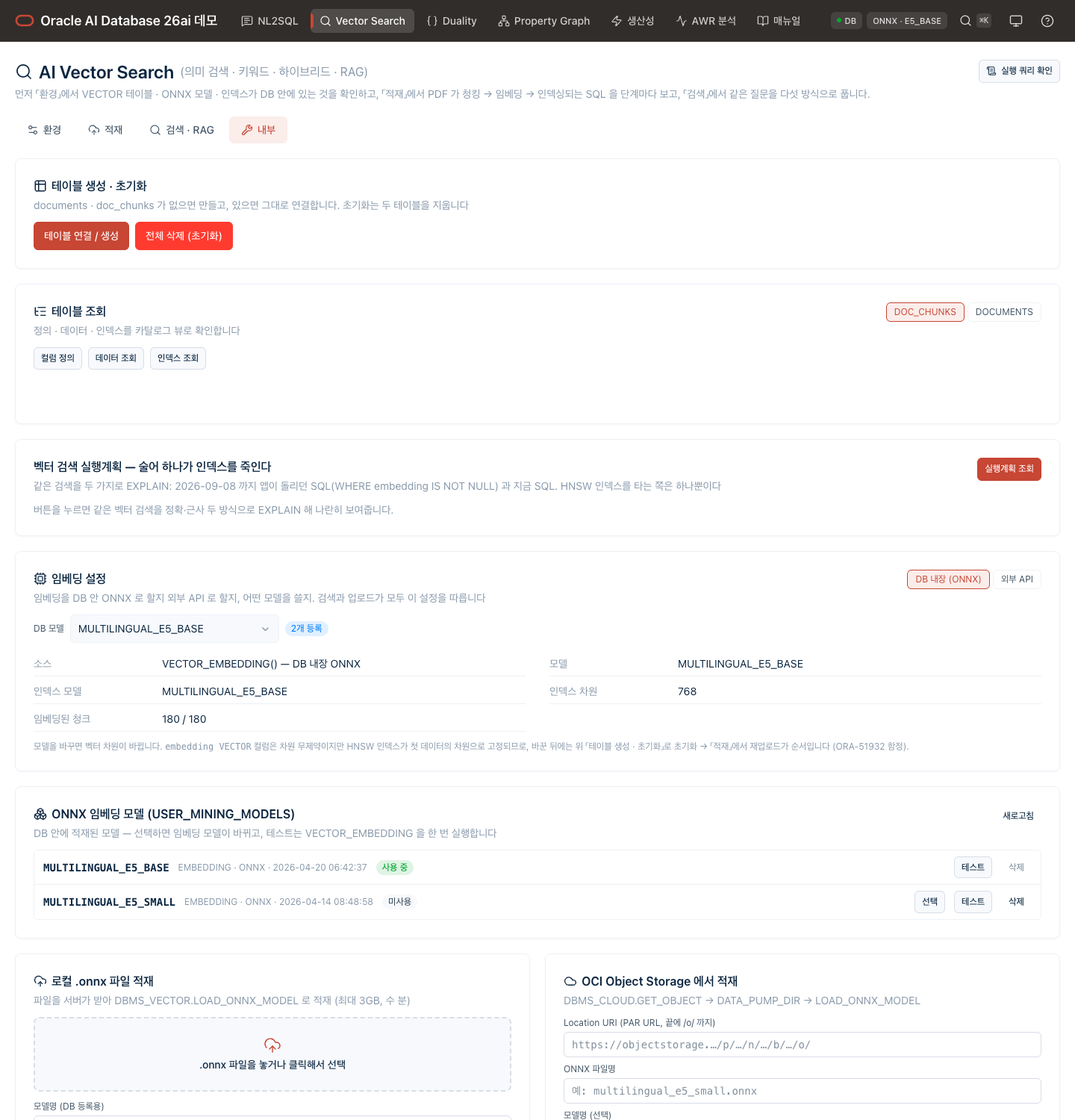
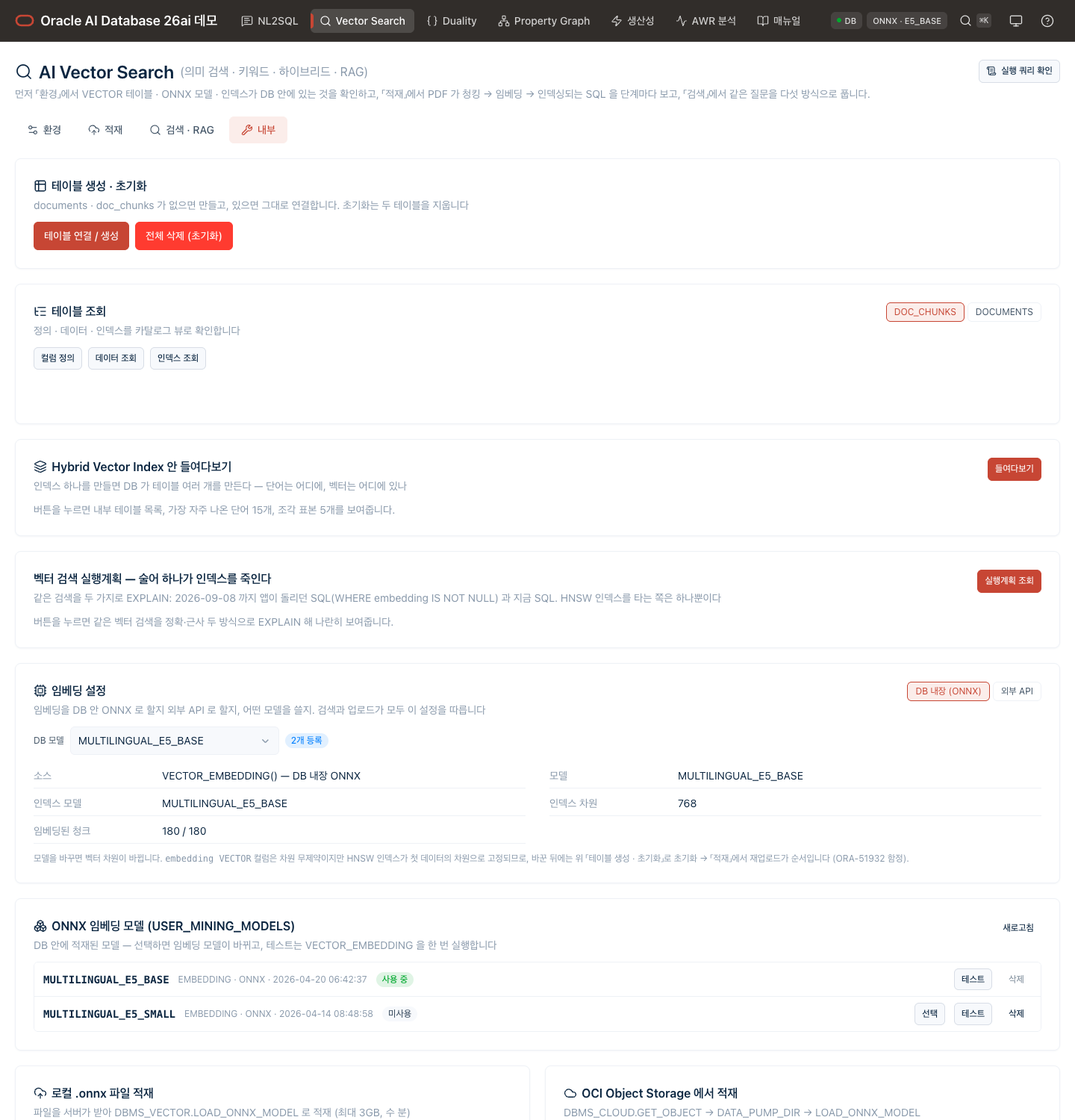
feat(vector): 「내부」 탭에 Hybrid Vector Index 안 들여다보기 — 내부 테이블 · 상위 토큰 · 조각 표본 (재편 P4)
인덱스 하나를 만들면 DB 가 테이블 12개를 만든다는 것을 표본으로 보여준다. P3 와 같은 원칙 —
값마다 뜻, "이게 있어서" 한 줄. DBA 가 "인덱스 안에 뭐가 있냐"고 물을 때의 답.

  vector_search.py  get_hybrid_index_internals(): 내부 테이블 목록 + 행 수 + 역할(확실한 것만:
                    $I 토큰 · $VR 조각+임베딩 · $K docid↔rowid · $N 삭제 대기 · IVF 중심점/배정,
                    나머지는 "보조") · 상위 토큰 15($I, TOKEN_COUNT 순) · 조각 표본 5($VR, 본문
                    100자 + VECTOR_DIMS). 컬럼명은 user_tab_columns 로 확인하고 썼다
  routers/vector.py GET /api/vector/hybrid-index/internals
  VectorInternals   카드 "Hybrid Vector Index 안 들여다보기" — 3열(테이블·단어·조각) + 안내:
                    단어가 '카드사는'·'회원이' 처럼 조사 붙은 채 저장되므로 키워드 검색이 '카드%'
                    로 묻는다(「검색」의 실행 SQL 과 연결). 조회 SQL 3개는 접힘

실측(이 ADB): 토큰 3,803 · 조각 451 · IVF 중심점 34.

함정: SFC 에 <style> 을 붙이려고 첫 </template> 뒤에 넣었더니 카드 슬롯의 </template> 뒤(템플릿
안)에 들어갔다 — 빌드는 통과한다. 파일 끝에 붙여야 한다. 핸드오프 4-22.

검증: 테스트 +1($I/$VR 존재 · 토큰 내림차순 · 조각 dims>0), pytest 64 · ruff · build 통과.
브라우저: 들여다보기 → 테이블 12 · 토큰 3,803(상위 '수') · 조각 5 × 768차원 · 안내 줄 · SQL 3개,
DOM 에 떠도는 <style> 없음. API 명세 60. 레지스트리 +1(생성 항목은 「환경」으로).

diff --git a/web/src/pages/vector/VectorInternals.vue b/web/src/pages/vector/VectorInternals.vue
@@ -1,7 +1,7 @@
 <script setup lang="ts">
 /** 「내부」 서브탭 — 증명·관리 도구: 실행계획 전/후 · 테이블 생성/조회 · ONNX 모델·임베딩 소스 관리. 시연 중 자주 안 열지만 DBA 가 반드시 묻는 것들 (2026-09-09 재편 P1) */
 import { ref } from 'vue'
-import { Table2, ListTree } from 'lucide-vue-next'
+import { Table2, ListTree, Layers } from 'lucide-vue-next'
 import Card from '@/components/ui/Card.vue'
 import Button from '@/components/ui/Button.vue'
 import Badge from '@/components/ui/Badge.vue'
@@ -11,6 +11,7 @@ import ResultTable from '@/components/demo/ResultTable.vue'
 import Segmented from '@/components/demo/Segmented.vue'
 import VectorEmbedding from './VectorEmbedding.vue'
 import CompareView from '@/components/demo/CompareView.vue'
+import { fmtNum } from '@/lib/format'
 import { useVectorStore } from '@/stores/vector'
 
 const v = useVectorStore()
@@ -50,6 +51,47 @@ const KINDS = [{ k: 'def', label: '컬럼 정의', hint: 'USER_TAB_COLUMNS' }, {
       </div>
     </Card>
 
+    <!-- P4: 인덱스 하나가 실제로는 테이블 여러 개 — 무엇이 들어 있나 -->
+    <Card title="Hybrid Vector Index 안 들여다보기" subtitle="인덱스 하나를 만들면 DB 가 테이블 여러 개를 만든다 — 단어는 어디에, 벡터는 어디에 있나" :icon="Layers">
+      <template #actions><Button size="sm" :busy="v.hviInternalsBusy" @click="v.loadHviInternals()">{{ v.hviInternals ? '새로고침' : '들여다보기' }}</Button></template>
+      <p v-if="!v.hviInternals" class="text-sm m-0" style="color: var(--text-muted);">버튼을 누르면 내부 테이블 목록, 가장 자주 나온 단어 15개, 조각 표본 5개를 보여줍니다.</p>
+      <div v-else-if="v.hviInternals.error" class="px-3 py-2.5 rounded-md text-sm" style="background: var(--accent-negative-soft); border-left: 3px solid var(--accent-negative); color: var(--text-primary);">{{ v.hviInternals.error }}</div>
+      <p v-else-if="!v.hviInternals.exists" class="text-sm m-0" style="color: var(--text-muted);">Hybrid Vector Index 가 없습니다 — 「환경」 서브탭에서 만드세요.</p>
+      <div v-else class="grid grid-cols-1 xl:grid-cols-3 gap-4 items-start">
+        <div>
+          <div class="text-xs font-semibold mb-1.5" style="color: var(--text-secondary);">내부 테이블 {{ v.hviInternals.tables?.length }}개</div>
+          <div class="rounded-md overflow-hidden" style="border: 1px solid var(--border-default);">
+            <div v-for="t in v.hviInternals.tables" :key="t.name" class="row px-2.5 py-1.5" style="background: var(--bg-elevated);">
+              <div class="flex items-baseline gap-2"><span class="font-mono text-xs truncate" style="color: var(--text-primary);" :title="t.name">{{ t.name.replace('VECTOR$DR$DOC_CHUNKS_HVI$VI$', 'VECTOR$…$').replace('DR$DOC_CHUNKS_HVI', 'DR$…') }}</span><span class="ml-auto text-xs tabular-nums shrink-0" style="color: var(--text-secondary);">{{ t.rows == null ? '—' : fmtNum(t.rows) }}행</span></div>
+              <div class="text-[11px]" style="color: var(--text-muted);">{{ t.role }}</div>
+            </div>
+          </div>
+        </div>
+        <div>
+          <div class="text-xs font-semibold mb-1.5" style="color: var(--text-secondary);">가장 자주 나온 단어 15 — 토큰 {{ fmtNum(v.hviInternals.token_total ?? 0) }}개 중</div>
+          <div class="flex flex-wrap gap-1.5">
+            <span v-for="tk in v.hviInternals.tokens" :key="tk.text" class="inline-flex items-baseline gap-1 rounded-md px-2 py-1 text-xs" style="background: var(--bg-elevated); border: 1px solid var(--border-default);"><span class="font-mono" style="color: var(--text-primary);">{{ tk.text }}</span><span class="tabular-nums" style="color: var(--text-muted);">{{ tk.count }}</span></span>
+          </div>
+          <p class="text-[11px] mt-2 m-0" style="color: var(--text-secondary); line-height: 1.5;">단어가 <span class="font-mono">카드사는</span> · <span class="font-mono">회원이</span> 처럼 <strong style="color: var(--text-primary);">조사가 붙은 채</strong> 저장됩니다(공백 단위). 그래서 키워드 검색은 <span class="font-mono">카드%</span> 처럼 앞부분으로 묻습니다 — 「검색」의 실행된 SQL 에 그 변환이 보입니다.</p>
+        </div>
+        <div>
+          <div class="text-xs font-semibold mb-1.5" style="color: var(--text-secondary);">조각 표본 5 — 인덱스가 스스로 자르고 벡터로 바꾼 것</div>
+          <div class="flex flex-col gap-1.5">
+            <div v-for="p in v.hviInternals.pieces" :key="p.chunk_id" class="rounded-md px-2.5 py-1.5 text-xs" style="background: var(--bg-elevated); border: 1px solid var(--border-default);">
+              <div class="flex items-center gap-1.5 mb-0.5"><Badge tone="code">#{{ p.chunk_id }}</Badge><span style="color: var(--text-muted);">{{ p.length }}자 → 숫자 {{ p.dims }}개</span></div>
+              <div class="line-clamp-2" style="color: var(--text-primary);">{{ p.text }}</div>
+            </div>
+          </div>
+        </div>
+      </div>
+      <template v-if="v.hviInternals?.exists && v.hviInternals.sql">
+        <p class="text-xs mt-3 mb-2" style="color: var(--text-secondary); line-height: 1.5;"><strong style="color: var(--text-primary);">이게 있어서:</strong> <span class="font-mono">CONTAINS</span> 는 $I 에서 단어를, 벡터 검색은 $VR 에서 조각을 찾습니다. 둘을 한 인덱스가 갖고 있어서 <span class="font-mono">DBMS_HYBRID_VECTOR.SEARCH</span> 의 융합이 DB 안에서 끝납니다.</p>
+        <details class="text-xs"><summary class="cursor-pointer" style="color: var(--text-muted);">조회 SQL 3개</summary>
+          <div class="mt-2 flex flex-col gap-2"><SqlBlock :code="v.hviInternals.sql.tables" label="내부 테이블" max-height="100px" /><SqlBlock :code="v.hviInternals.sql.tokens" label="상위 토큰 ($I)" max-height="100px" /><SqlBlock :code="v.hviInternals.sql.pieces" label="조각 표본 ($VR)" max-height="100px" /></div>
+        </details>
+      </template>
+    </Card>
+
     <Card title="벡터 검색 실행계획 — 술어 하나가 인덱스를 죽인다" subtitle="같은 검색을 두 가지로 EXPLAIN: 2026-09-08 까지 앱이 돌리던 SQL(WHERE embedding IS NOT NULL) 과 지금 SQL. HNSW 인덱스를 타는 쪽은 하나뿐이다">
       <template #actions><Button size="sm" :busy="v.planBusy" @click="v.loadPlan()">실행계획 조회</Button></template>
       <div v-if="v.plan" class="flex flex-col gap-2">
@@ -86,3 +128,7 @@ const KINDS = [{ k: 'def', label: '컬럼 정의', hint: 'USER_TAB_COLUMNS' }, {
     </ConfirmModal>
   </div>
 </template>
+
+<style scoped>
+.row + .row { border-top: 1px solid var(--border-default); }
+</style>

diff --git a/web/src/lib/vector.ts b/web/src/lib/vector.ts
@@ -50,6 +50,13 @@ export interface PlanSide { target_sql: string; plan_text: string; access?: stri
 /** 2026-09-08 까지의 SQL(before: WHERE embedding IS NOT NULL) vs 지금(after) — 술어 하나가 HNSW 를 죽였다. after 만 VECTOR INDEX HNSW SCAN */
 export interface HybridIndexStatus { success: boolean; exists: boolean; index_name: string; status?: string | null; ctx_status?: string | null; parameters?: string | null; indexed_chunks?: number | null; legacy_text_index: boolean; model: string; create_sql: string; error?: string }
 export interface HybridIndexCreate { success: boolean; skipped?: boolean; message?: string; error?: string; elapsed_ms?: number; steps?: { sql: string; note: string; duration_ms?: number }[]; status?: HybridIndexStatus }
+export interface HybridInternals {
+  success: boolean; exists: boolean; index_name: string; error?: string
+  tables?: { name: string; rows: number | null; role: string }[]
+  token_total?: number; tokens?: { text: string; count: number }[]
+  pieces?: { chunk_id: number; length: number; text: string; dims: number }[]
+  sql?: { tables: string; tokens: string; pieces: string }
+}
 export interface ExplainPlan { success: boolean; before?: PlanSide; after?: PlanSide; target_sql?: string; explain_sql?: string; plan_text?: string; error?: string }
 export interface UploadDone { doc_id?: number; filename: string; chunks_count: number; embedded_count?: number; not_embedded_count?: number; pages_count?: number; total_ms: number; warning?: string }
 export interface PipelineStep { step: number; label: string; status: 'pending' | 'running' | 'done'; detail?: string; duration_ms?: number; sql?: string; sample?: any }
@@ -68,6 +75,7 @@ export const tableData = (table_name: string, limit = 50) => api.post('/api/vect
 export const tableIndexes = (table_name: string) => api.post('/api/vector/table-indexes', { table_name }).then((r) => fromColumnsData(r.data) as Rows)
 export const getHybridIndex = () => api.get<HybridIndexStatus>('/api/vector/hybrid-index').then((r) => r.data)
 export const createHybridIndex = (force = false) => api.post<HybridIndexCreate>('/api/vector/hybrid-index/create', { force }, { timeout: 600_000 }).then((r) => r.data)
+export const getHybridInternals = () => api.get<HybridInternals>('/api/vector/hybrid-index/internals').then((r) => r.data)
 export const explainPlan = () => api.post<ExplainPlan>('/api/vector/explain-plan').then((r) => r.data)
 export const getEmbeddingConfig = () => api.get<EmbeddingConfig>('/api/vector/embedding-config').then((r) => r.data)
 export const setEmbeddingConfig = (body: { source?: string; model?: string; reset_model?: boolean }) => api.post<EmbeddingConfig>('/api/vector/embedding-config', body).then((r) => r.data)

diff --git a/web/src/stores/vector.ts b/web/src/stores/vector.ts
@@ -1,5 +1,5 @@
 import { defineStore } from 'pinia'
-import { getHybridIndex, createHybridIndex, ENV_EMBED_SAMPLE, type HybridIndexStatus, type HybridIndexCreate } from '@/lib/vector'
+import { getHybridIndex, createHybridIndex, getHybridInternals, ENV_EMBED_SAMPLE, type HybridIndexStatus, type HybridIndexCreate, type HybridInternals } from '@/lib/vector'
 import { computed, ref } from 'vue'
 import { errorMessage } from '@/lib/api'
 import { postSse } from '@/composables/useSse'
@@ -194,6 +194,11 @@ export const useVectorStore = defineStore('vector', () => {
     finally { hviBusy.value = '' }
   }
 
+  // 「내부」 — 하이브리드 인덱스 안 들여다보기 (P4)
+  const hviInternals = ref<HybridInternals | null>(null)
+  const hviInternalsBusy = ref(false)
+  async function loadHviInternals() { hviInternalsBusy.value = true; try { hviInternals.value = await getHybridInternals() } catch (e) { hviInternals.value = { success: false, exists: false, index_name: '', error: errorMessage(e) } } finally { hviInternalsBusy.value = false } }
+
   async function loadPlan() { planBusy.value = true; try { plan.value = await explainPlan() } catch (e) { plan.value = { success: false, error: errorMessage(e) } } finally { planBusy.value = false } }
 
   // ── 검색 (RAG) ──
@@ -294,5 +299,6 @@ export const useVectorStore = defineStore('vector', () => {
     onnxTest, onnxBusy, onnxLocalResult, onnxCloudResult, refreshOnnx, testModel, deleteModel, uploadLocal, loadCloud,
     hvi, hviBusy, hviResult, loadHvi, createHvi,
     envEmbedText, envEmbed, envEmbedBusy, testEmbed,
+    hviInternals, hviInternalsBusy, loadHviInternals,
   }
 })

diff --git a/app/vector_search.py b/app/vector_search.py
@@ -719,6 +719,71 @@ async def sync_hybrid_index(pool) -> dict:
     return {"sql": f"BEGIN CTX_DDL.SYNC_INDEX('{HYBRID_INDEX}'); END;", "elapsed_ms": int((time.time() - t) * 1000)}
 
 
+# 하이브리드 인덱스 내부 테이블의 역할 — 확실한 것만 적는다. 모르는 것은 "보조"라고 부른다.
+_HVI_TABLE_ROLES = {
+    "$I": "텍스트 토큰 — 단어 하나가 어느 조각에 몇 번 나오나 (CONTAINS 가 여기서 찾는다)",
+    "$VR": "조각 + 임베딩 — 인덱스가 스스로 잘라 벡터로 바꾼 것 (벡터 검색이 여기서 찾는다)",
+    "$K": "DOCID ↔ ROWID 매핑 — 인덱스 내부 번호를 원본 행으로",
+    "$N": "삭제 대기 목록 — 지운 행을 다음 동기화 때 정리",
+}
+
+
+def _hvi_role(table_name: str) -> str:
+    if "IVF_FLAT_CENTROIDS" in table_name:
+        return "벡터 인덱스(IVF) 중심점 — 조각들을 묶은 대표 벡터"
+    if "IVF_FLAT_CENTROID_PARTITIONS" in table_name:
+        return "벡터 인덱스(IVF) 배정 — 조각이 어느 중심점에 속하나"
+    suffix = table_name.rsplit("$", 1)[-1]
+    return _HVI_TABLE_ROLES.get("$" + suffix, "인덱스 보조 테이블")
+
+
+async def get_hybrid_index_internals(pool) -> dict:
+    """하이브리드 인덱스 하나가 실제로는 테이블 여러 개다 — 무엇을 만들어 놓았고 안에 무엇이 들었나 (「내부」 탭, 2026-09-09 P4).
+
+    표본만 보여준다: 내부 테이블 목록 + 행 수, 가장 자주 나온 토큰 15개($I), 조각 5개($VR, 본문 100자 + 차원).
+    토큰이 '카드사는'·'회원이' 처럼 조사가 붙은 꼴로 저장되는 것이 그대로 보인다 — 앱이 '카드%' 로 묻는 이유.
+    """
+    t_i, t_vr = f"DR${HYBRID_INDEX}$I", f"DR${HYBRID_INDEX}$VR"
+    sql_tables = f"""SELECT table_name FROM user_tables
+WHERE  table_name LIKE 'DR${HYBRID_INDEX}$%' OR table_name LIKE 'VECTOR$DR${HYBRID_INDEX}%'
+ORDER  BY table_name"""
+    sql_tokens = f"""SELECT token_text, token_count
+FROM   {t_i}
+ORDER  BY token_count DESC
+FETCH FIRST 15 ROWS ONLY"""
+    sql_pieces = f"""SELECT doc_chunk_id, doc_chunk_length, doc_chunk_text, VECTOR_DIMS(doc_embedding)
+FROM   {t_vr}
+ORDER  BY doc_docid, doc_chunk_id
+FETCH FIRST 5 ROWS ONLY"""
+    async with pool.acquire() as conn:
+        async with conn.cursor() as cursor:
+            await cursor.execute("SELECT COUNT(*) FROM user_indexes WHERE index_name = :n", {"n": HYBRID_INDEX})
+            if (await cursor.fetchone())[0] == 0:
+                return {"exists": False, "index_name": HYBRID_INDEX}
+            await cursor.execute(sql_tables)
+            names = [r[0] for r in await cursor.fetchall()]
+            tables = []
+            for n in names:
+                try:
+                    await cursor.execute(f'SELECT COUNT(*) FROM "{n}"')
+                    cnt = (await cursor.fetchone())[0]
+                except Exception as e:
+                    logger.warning("[hvi-internals] %s 행 수 조회 실패: %s", n, e)
+                    cnt = None
+                tables.append({"name": n, "rows": cnt, "role": _hvi_role(n)})
+            await cursor.execute(f"SELECT COUNT(*) FROM {t_i}")
+            token_total = (await cursor.fetchone())[0]
+            await cursor.execute(sql_tokens)
+            tokens = [{"text": r[0], "count": r[1]} for r in await cursor.fetchall()]
+            await cursor.execute(sql_pieces)
+            pieces = [{"chunk_id": r[0], "length": r[1], "text": (r[2] or "")[:100], "dims": r[3]} for r in await cursor.fetchall()]
+    return {
+        "exists": True, "index_name": HYBRID_INDEX, "tables": tables,
+        "token_total": token_total, "tokens": tokens, "pieces": pieces,
+        "sql": {"tables": sql_tables, "tokens": sql_tokens, "pieces": sql_pieces},
+    }
+
+
 async def hybrid_index_search(pool, query: str, top_k: int = 5, fusion: str = "UNION", scorer: str = "rsf") -> dict:
     """DBMS_HYBRID_VECTOR.SEARCH — JSON 한 덩어리로 텍스트+벡터 융합 검색. 반환 점수: score(융합)·vector_score·text_score (0~100)."""
     start = time.time()

diff --git a/app/feature_registry.py b/app/feature_registry.py
@@ -76,9 +76,12 @@ _F = [
  ("vector", "검색 모드 — Hybrid Vector Index (26ai)", "CREATE HYBRID VECTOR INDEX 하나 + DBMS_HYBRID_VECTOR.SEARCH 로 텍스트·벡터 융합",
   "26ai 의 대표 기능. 텍스트 컬럼 하나에 인덱스 하나를 만들면 DB 가 청킹·임베딩·인덱싱·융합을 다 한다. 융합 점수·벡터 점수·텍스트 점수가 청크마다 보인다.",
   "/vector?sub=search&mode=hvi", "hybrid vector index 하이브리드 인덱스 26ai DBMS_HYBRID_VECTOR fusion rsf"),
- ("vector", "Hybrid Vector Index 생성", "Vector Store 탭에서 인덱스 상태 확인 · 생성(옛 Oracle Text 인덱스 대체)",
+ ("vector", "Hybrid Vector Index 안 들여다보기", "내부 테이블 12개 · 자주 나온 단어 15 · 조각 표본 5 — 인덱스 하나가 실제로 무엇을 만들어 놓았나",
+  "DBA 가 \"인덱스 안에 뭐가 있냐\"고 물을 때. 단어가 조사 붙은 채 저장되는 것($I)과 조각마다 벡터가 있는 것($VR)이 그대로 보인다.",
+  "/vector?sub=internals", "hybrid index internals 내부 토큰 조각 $I $VR ivf"),
+ ("vector", "Hybrid Vector Index 생성", "「환경」 탭에서 인덱스 상태 확인 · 생성(옛 Oracle Text 인덱스 대체)",
   "청크 수 × 0.2초. 업로드마다 CTX_DDL.SYNC_INDEX 로 새 청크가 반영된다. 실행되는 DDL 이 화면에 남는다.",
-  "/vector?sub=internals", "hybrid vector index create 생성 ctx_ddl sync"),
+  "/vector?sub=env", "hybrid vector index create 생성 ctx_ddl sync"),
  ("vector", "실행계획 — 술어 하나가 인덱스를 죽인다", "같은 벡터 검색을 WHERE embedding IS NOT NULL 유무로 EXPLAIN 해 나란히",
   "2026-09-08 까지 앱의 검색 SQL 은 이 술어 때문에 HNSW 인덱스를 한 번도 안 탔다. 계획이 TABLE ACCESS FULL ↔ VECTOR INDEX HNSW SCAN 으로 갈리는 것을 보여준다.",
   "/vector?sub=internals", "explain plan 실행계획 hnsw approx 근사 술어"),

diff --git a/tests/test_api_smoke.py b/tests/test_api_smoke.py
@@ -330,6 +330,17 @@ class TestVectorIndexPaths:
         assert d["dimensions_measured"] is True and isinstance(d["vector_dimensions"], int) and d["vector_dimensions"] > 0
         assert "CREATE VECTOR INDEX" in d.get("hnsw_ddl", "")
 
+    def test_하이브리드_인덱스_내부_표본(self, client):
+        """P4 (2026-09-09): 인덱스 하나 = 테이블 여러 개. $I 토큰 · $VR 조각(벡터 차원 포함)이 표본으로 온다."""
+        d = client.get("/api/vector/hybrid-index/internals").json()
+        assert d.get("success"), d.get("error")
+        if not d["exists"]:
+            pytest.skip("Hybrid Vector Index 없음")
+        names = [t["name"] for t in d["tables"]]
+        assert any(n.endswith("$I") for n in names) and any(n.endswith("$VR") for n in names), names
+        assert d["tokens"] and d["tokens"][0]["count"] >= d["tokens"][-1]["count"]
+        assert d["pieces"] and all(p["dims"] > 0 and p["text"] for p in d["pieces"])
+
     def test_키워드_검색은_여전히_CONTAINS_로_돈다(self, client):
         d = client.post("/api/vector/search", json={"query": "보험금 청구", "mode": "keyword", "top_k": 3}).json()
         assert d.get("success"), d.get("error")

diff --git a/app/routers/vector.py b/app/routers/vector.py
@@ -24,6 +24,7 @@ from app.vector_search import (
     drop_vector_tables,
     generate_rag_answer,
     get_embedding_info,
+    get_hybrid_index_internals,
     get_hybrid_index_status,
     get_index_info,
     get_onnx_model_detail,
@@ -213,6 +214,19 @@ async def hybrid_index_status():
 
 class HybridIndexRequest(BaseModel):
     force: bool = False
+
+
+@router.get("/hybrid-index/internals")
+async def hybrid_index_internals():
+    """Hybrid Vector Index 안 들여다보기 — 내부 테이블 목록·행 수, 상위 토큰 15($I), 조각 표본 5($VR). 없으면 exists=false."""
+    pool = await get_pool()
+    if pool is None:
+        return JSONResponse(status_code=503, content={"success": False, "error": "데이터베이스에 연결되지 않았습니다."})
+    try:
+        return {"success": True, **(await get_hybrid_index_internals(pool))}
+    except Exception as e:
+        logger.warning("[hvi-internals] 실패: %s", e)
+        return JSONResponse(status_code=500, content={"success": False, "error": str(e)})
 
 
 @router.post("/hybrid-index/create")

diff --git a/docs/design/03_API_명세서.md b/docs/design/03_API_명세서.md
@@ -3,7 +3,7 @@
 > **정본은 라우트 정의와 docstring 이다** (`app/routes.py` + `app/routers/*.py`). 이 문서는
 > `scripts/gen_api_doc.py` 가 생성한다 — **손으로 고치지 말고 코드를 고친 뒤 다시 생성할 것.**
 > 엔드포인트를 추가·변경하면 같은 커밋에서 이 문서와 `CLAUDE.md` API 목록을 함께 갱신한다.
-> 전체 **59개** 엔드포인트 · 공통 prefix `/api`
+> 전체 **60개** 엔드포인트 · 공통 prefix `/api`
 
 ## 공통 규약
 
@@ -48,38 +48,38 @@
 
 | Method | 경로 | 요청 | 설명 | 구현 |
 |---|---|---|---|---|
-| `GET` | `/api/vector/documents` | — | 업로드된 문서 목록 조회 | `app/routers/vector.py:232` |
-| `DELETE` | `/api/vector/documents/{doc_id}` | — | 특정 문서 및 관련 청크 삭제 | `app/routers/vector.py:252` |
-| `POST` | `/api/vector/embedding-info` | EmbeddingInfoRequest | 질문 텍스트의 임베딩 과정 정보 반환 | `app/routers/vector.py:292` |
-| `POST` | `/api/vector/explain-plan` | — | 벡터 검색 SQL의 실행 계획 조회 | `app/routers/vector.py:439` |
-| `GET` | `/api/vector/index-info` | — | 벡터 인덱스 메타데이터 조회 | `app/routers/vector.py:272` |
-| `GET` | `/api/vector/recent-queries` | — | V$SQL에서 최근 벡터 관련 쿼리 조회 | `app/routers/vector.py:419` |
-| `POST` | `/api/vector/search` | VectorSearchRequest | 벡터 유사도 검색 / 키워드 검색 / 비교 검색 | `app/routers/vector.py:135` |
-| `POST` | `/api/vector/upload` | multipart 파일 | PDF 파일 업로드 -> SSE 스트리밍으로 실시간 진행 상황 전달 | `app/routers/vector.py:69` |
-| `POST` | `/api/vector/visualize` | VectorVisRequest | 청크 임베딩을 2D PCA로 축소하여 시각화 데이터 반환 | `app/routers/vector.py:464` |
+| `GET` | `/api/vector/documents` | — | 업로드된 문서 목록 조회 | `app/routers/vector.py:246` |
+| `DELETE` | `/api/vector/documents/{doc_id}` | — | 특정 문서 및 관련 청크 삭제 | `app/routers/vector.py:266` |
+| `POST` | `/api/vector/embedding-info` | EmbeddingInfoRequest | 질문 텍스트의 임베딩 과정 정보 반환 | `app/routers/vector.py:306` |
+| `POST` | `/api/vector/explain-plan` | — | 벡터 검색 SQL의 실행 계획 조회 | `app/routers/vector.py:453` |
+| `GET` | `/api/vector/index-info` | — | 벡터 인덱스 메타데이터 조회 | `app/routers/vector.py:286` |
+| `GET` | `/api/vector/recent-queries` | — | V$SQL에서 최근 벡터 관련 쿼리 조회 | `app/routers/vector.py:433` |
+| `POST` | `/api/vector/search` | VectorSearchRequest | 벡터 유사도 검색 / 키워드 검색 / 비교 검색 | `app/routers/vector.py:136` |
+| `POST` | `/api/vector/upload` | multipart 파일 | PDF 파일 업로드 -> SSE 스트리밍으로 실시간 진행 상황 전달 | `app/routers/vector.py:70` |
+| `POST` | `/api/vector/visualize` | VectorVisRequest | 청크 임베딩을 2D PCA로 축소하여 시각화 데이터 반환 | `app/routers/vector.py:478` |
 
 ## ② AI Vector Search — 테이블 관리
 
 | Method | 경로 | 요청 | 설명 | 구현 |
 |---|---|---|---|---|
-| `POST` | `/api/vector/create-tables` | — | Vector Store 테이블 생성/연결 | `app/routers/vector.py:334` |
-| `POST` | `/api/vector/drop-tables` | — | Vector Store 테이블 삭제 | `app/routers/vector.py:314` |
-| `POST` | `/api/vector/table-data` | TableQueryRequest | 테이블 데이터 조회 | `app/routers/vector.py:379` |
-| `POST` | `/api/vector/table-definition` | TableQueryRequest | 테이블 컬럼 정의 조회 | `app/routers/vector.py:359` |
-| `POST` | `/api/vector/table-indexes` | TableQueryRequest | 테이블 인덱스 조회 | `app/routers/vector.py:399` |
+| `POST` | `/api/vector/create-tables` | — | Vector Store 테이블 생성/연결 | `app/routers/vector.py:348` |
+| `POST` | `/api/vector/drop-tables` | — | Vector Store 테이블 삭제 | `app/routers/vector.py:328` |
+| `POST` | `/api/vector/table-data` | TableQueryRequest | 테이블 데이터 조회 | `app/routers/vector.py:393` |
+| `POST` | `/api/vector/table-definition` | TableQueryRequest | 테이블 컬럼 정의 조회 | `app/routers/vector.py:373` |
+| `POST` | `/api/vector/table-indexes` | TableQueryRequest | 테이블 인덱스 조회 | `app/routers/vector.py:413` |
 
 ## ② 임베딩 · ONNX 모델
 
 | Method | 경로 | 요청 | 설명 | 구현 |
 |---|---|---|---|---|
-| `GET` | `/api/vector/embedding-config` | — | 현재 임베딩 설정 반환 | `app/routers/vector.py:492` |
-| `POST` | `/api/vector/embedding-config` | EmbeddingConfigRequest | 임베딩 설정 런타임 변경 (서버 재시작 시 .env 값으로 복원) | `app/routers/vector.py:505` |
-| `GET` | `/api/vector/onnx-models` | — | DB에 로드된 ONNX 임베딩 모델 목록 조회 | `app/routers/vector.py:540` |
-| `POST` | `/api/vector/onnx-models/load-cloud` | raw JSON | OCI Object Storage에서 ONNX 모델을 가져와 DB에 적재 | `app/routers/vector.py:616` |
-| `POST` | `/api/vector/onnx-models/test` | raw JSON | ONNX 모델 테스트 (샘플 임베딩 생성) | `app/routers/vector.py:675` |
-| `POST` | `/api/vector/onnx-models/upload` | multipart 파일 | ONNX 파일 업로드 → DB 모델 적재 | `app/routers/vector.py:563` |
-| `DELETE` | `/api/vector/onnx-models/{model_name}` | — | DB에서 ONNX 모델 삭제 | `app/routers/vector.py:655` |
-| `GET` | `/api/vector/onnx-models/{model_name}/detail` | — | ONNX 모델 상세 정보 조회 | `app/routers/vector.py:705` |
+| `GET` | `/api/vector/embedding-config` | — | 현재 임베딩 설정 반환 | `app/routers/vector.py:506` |
+| `POST` | `/api/vector/embedding-config` | EmbeddingConfigRequest | 임베딩 설정 런타임 변경 (서버 재시작 시 .env 값으로 복원) | `app/routers/vector.py:519` |
+| `GET` | `/api/vector/onnx-models` | — | DB에 로드된 ONNX 임베딩 모델 목록 조회 | `app/routers/vector.py:554` |
+| `POST` | `/api/vector/onnx-models/load-cloud` | raw JSON | OCI Object Storage에서 ONNX 모델을 가져와 DB에 적재 | `app/routers/vector.py:630` |
+| `POST` | `/api/vector/onnx-models/test` | raw JSON | ONNX 모델 테스트 (샘플 임베딩 생성) | `app/routers/vector.py:689` |
+| `POST` | `/api/vector/onnx-models/upload` | multipart 파일 | ONNX 파일 업로드 → DB 모델 적재 | `app/routers/vector.py:577` |
+| `DELETE` | `/api/vector/onnx-models/{model_name}` | — | DB에서 ONNX 모델 삭제 | `app/routers/vector.py:669` |
+| `GET` | `/api/vector/onnx-models/{model_name}/detail` | — | ONNX 모델 상세 정보 조회 | `app/routers/vector.py:719` |
 
 ## ③ JSON Relational Duality
 
@@ -135,8 +135,9 @@
 | Method | 경로 | 요청 | 설명 | 구현 |
 |---|---|---|---|---|
 | `POST` | `/api/env-info` | EnvInfoRequest | Select AI 환경 3종을 조회한다 — profile(프로필 속성) · acl(네트워크 ACL) · credential(크리덴셜). | `app/routers/nl2sql.py:54` |
-| `GET` | `/api/vector/hybrid-index` | — | Hybrid Vector Index(26ai) 상태 — 있는가, 내부에 몇 청크가 임베딩돼 있는가, 옛 CONTEXT 인덱스가 남았는가. | `app/routers/vector.py:203` |
-| `POST` | `/api/vector/hybrid-index/create` | HybridIndexRequest | Hybrid Vector Index 생성(옛 Oracle Text 인덱스 대체). 청크 수 × ~200ms — 180청크 약 50초. | `app/routers/vector.py:219` |
+| `GET` | `/api/vector/hybrid-index` | — | Hybrid Vector Index(26ai) 상태 — 있는가, 내부에 몇 청크가 임베딩돼 있는가, 옛 CONTEXT 인덱스가 남았는가. | `app/routers/vector.py:204` |
+| `GET` | `/api/vector/hybrid-index/internals` | — | Hybrid Vector Index 안 들여다보기 — 내부 테이블 목록·행 수, 상위 토큰 15($I), 조각 표본 5($VR). 없으면 exists=false. | `app/routers/vector.py:220` |
+| `POST` | `/api/vector/hybrid-index/create` | HybridIndexRequest | Hybrid Vector Index 생성(옛 Oracle Text 인덱스 대체). 청크 수 × ~200ms — 180청크 약 50초. | `app/routers/vector.py:233` |
 
 ---
 

diff --git a/docs/SESSION_HANDOFF.md b/docs/SESSION_HANDOFF.md
@@ -548,6 +548,22 @@ primary 옆에 놓인 secondary 가 같은 높이가 된다 — 이 화면만이
 
 **함정** — `lib/vector.ts` 인터페이스를 문자열 슬라이스로 바꾸다 안쪽 `}` 에서 잘라 빌드가 깨졌다(`index?: {…} | null` 의 중괄호). 다음 `export ` 선언 직전까지를 범위로 잡아 복구. 여러 줄 타입은 정규식으로 자르지 말고 파일을 읽고 고칠 것.
 
+## 4-22. 「내부」 탭 P4 — Hybrid Vector Index 안 들여다보기 (2026-09-09, Fable 5.1)
+
+**내용** — 인덱스 하나를 만들면 DB 가 테이블 12개를 만든다는 것을 표본으로 보여준다(P3 와 같은 원칙: 값마다 뜻, "이게 있어서" 한 줄).
+`GET /api/vector/hybrid-index/internals` → 내부 테이블 목록 + 행 수 + 역할(확실한 것만: `$I` 토큰 · `$VR` 조각+임베딩 · `$K` docid↔rowid · `$N` 삭제 대기 ·
+IVF 중심점/배정; 나머지는 "보조") · 상위 토큰 15(`$I`, TOKEN_COUNT 순) · 조각 표본 5(`$VR`, 본문 100자 + `VECTOR_DIMS`).
+카드 안내: 단어가 `카드사는`·`회원이` 처럼 **조사가 붙은 채** 저장되므로 키워드 검색이 `카드%` 로 묻는다 — 「검색」의 실행 SQL 과 이어진다.
+"이게 있어서: CONTAINS 는 $I 에서, 벡터 검색은 $VR 에서 — 한 인덱스가 둘을 가져 융합이 DB 안에서 끝난다."
+
+**실측(이 ADB)** — 토큰 3,803개(고유 3,803) · 조각 451 · IVF 중심점 34. 컬럼명은 추측하지 않고 `user_tab_columns` 로 확인:
+`$I(TOKEN_TEXT, TOKEN_TYPE, TOKEN_COUNT …)` · `$VR(DOC_DOCID, DOC_ROWID, DOC_CHUNK_ID, DOC_CHUNK_TEXT, DOC_EMBEDDING …)`.
+
+**함정** — SFC 에 `<style>` 을 붙이려고 첫 `</template>` 뒤에 넣었더니 **카드 슬롯의 `</template>`** 뒤(템플릿 안)에 들어갔다. 빌드는 통과한다(HTML 요소로 취급) —
+파일 끝에 붙여야 한다. `rstrip().endswith('</template>')` 로 확인하고 붙일 것.
+
+**남은 것** — P5 장표 기반(변환 스크립트 · `/slides` 마운트 · 뷰어 · `?slide=` · 레지스트리 `slides` 필드) → P7 마무리(RAG 출처 배지 등). ④ Select AI RAG 논의.
+
 ## 5. 절대 지켜야 할 규칙 (발췌 — 정본은 `docs/개발노하우.md`)
 
 - **커밋 전 시크릿 게이트 필수.** 저장소가 GitHub 공개다. 한번 push 된 시크릿은

diff --git a/CLAUDE.md b/CLAUDE.md
@@ -164,7 +164,8 @@ scripts/deploy.sh
 - `POST /api/vector/drop-tables` · `POST /api/vector/create-tables` — Vector Store 테이블 삭제/생성
 - `POST /api/vector/table-definition` · `table-data` · `table-indexes` — 테이블 정의/데이터/인덱스 조회
 - `GET /api/vector/recent-queries` — V$SQL 최근 벡터 쿼리
-- `POST /api/vector/explain-plan` — 벡터 검색 실행계획
+- `POST /api/vector/explain-plan` — 벡터 검색 실행계획 (before/after 두 계획)
+- `GET /api/vector/hybrid-index` · `POST /api/vector/hybrid-index/create` · `GET /api/vector/hybrid-index/internals` — Hybrid Vector Index 상태 / 생성(CONTEXT 인덱스 대체) / 내부 표본(테이블·상위 토큰·조각)
 - `POST /api/vector/visualize` — 벡터 시각화 데이터
 
 ### 임베딩 & ONNX 관리 (`app/routers/vector.py`)
